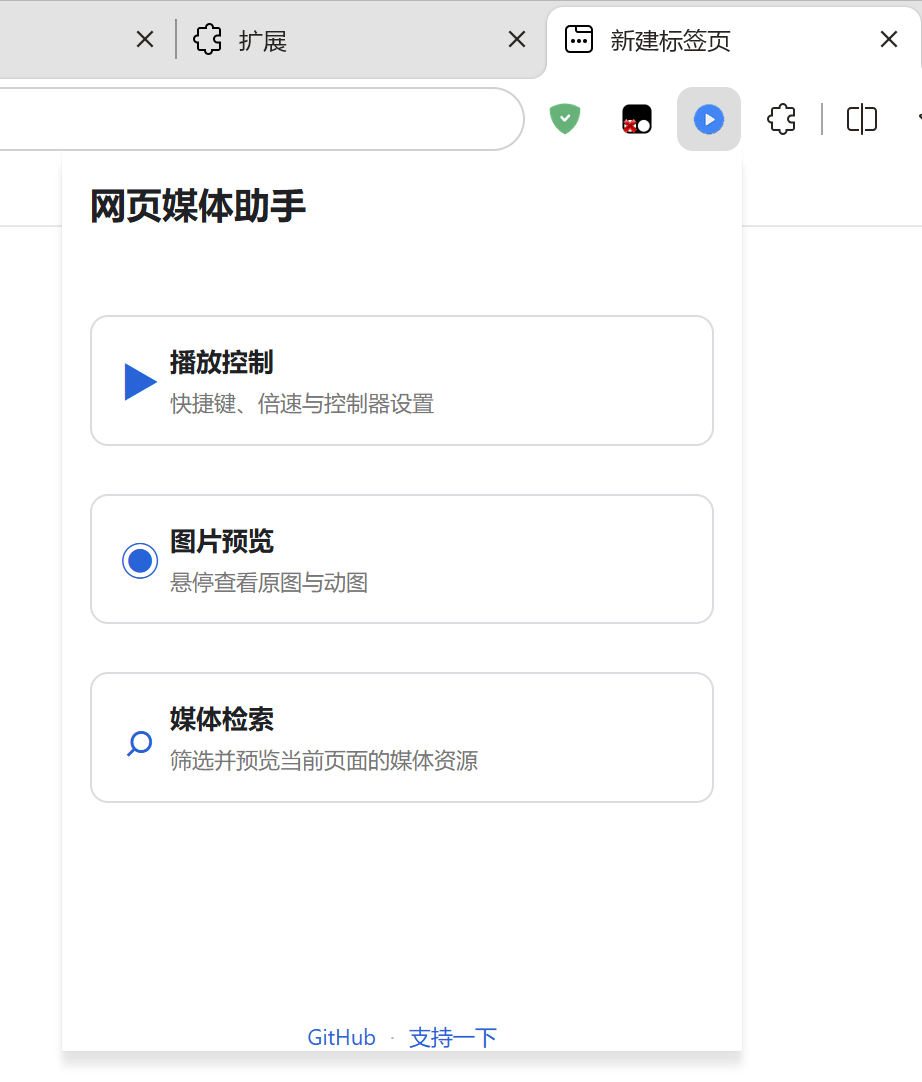
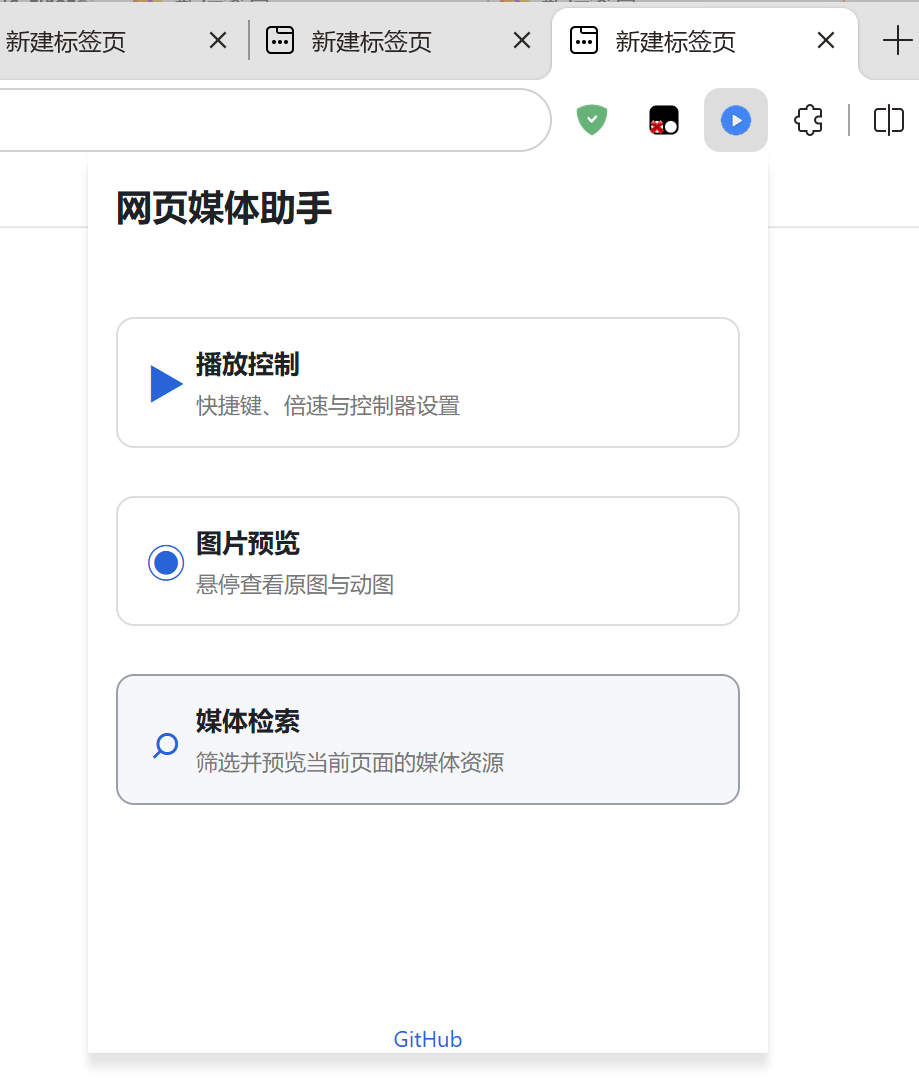
Update screenshots and release 0.1.40

diff --git a/popup.css b/popup.css
@@ -28,7 +28,6 @@ input[type="text"], input[type="number"], textarea { caret-color: auto; }
 .subpage-header { position: sticky; top: 0; z-index: 4; display: grid; grid-template-columns: auto minmax(0, 1fr); gap: 10px; align-items: center; min-height: 52px; padding: 6px 0 9px; margin-bottom: 7px; border-bottom: 1px solid #edf0f2; background: #fff; }
 .subpage-header b, .subpage-header small { display: block; }
 .subpage-header small { margin-top: 3px; overflow: hidden; color: #777; font-size: 10px; line-height: 1.25; text-overflow: ellipsis; white-space: nowrap; }
-#donationPanel .subpage-header small { overflow: visible; line-height: 1.4; text-overflow: clip; white-space: normal; }
 .back-button { align-self: stretch; padding: 0 8px; border: 1px solid #d2d6dc; border-radius: 6px; color: #2864d7; background: #fff; font-size: 11px; }
 .back-button:hover { background: #eef3fc; }
 .card-icon { font-size: 20px; color: #2864d7; text-align: center; }
@@ -38,7 +37,6 @@ input[type="text"], input[type="number"], textarea { caret-color: auto; }
 .app-footer { display: flex; align-items: center; justify-content: center; gap: 7px; margin-top: auto; padding: 12px 0 0; color: #9aa0a6; font-size: 11px; }
 .app-footer a, .footer-link { color: #2864d7; text-decoration: none; }
 .footer-link { padding: 0; border: 0; background: transparent; font-size: inherit; }
-.footer-separator { color: #b4b9bf; }
 .app-footer a:hover, .footer-link:hover { text-decoration: underline; }
 .feature-header { grid-template-columns: auto minmax(0, 1fr) auto; }
 .feature-switch { display: flex; align-items: center; margin-right: 5px; cursor: pointer; user-select: none; }
@@ -92,7 +90,6 @@ input[type="text"], input[type="number"], textarea { caret-color: auto; }
 .capture-quality:disabled { color: #999; background: #f5f5f5; border-color: #ddd; cursor: not-allowed; }
 .capture-preview { display: block; width: 100%; max-height: 170px; margin-top: 7px; border-radius: 4px; background: #000; }
 .capture-preview-error { display: block; margin-top: 6px; color: #b3261e; font-size: 10px; line-height: 1.35; }
-.donation-code { display: block; width: min(100%, 230px); height: auto; margin: 8px auto 0; border-radius: 8px; }
 .rules-box { margin-top: 12px; border: 1px solid #dfe4ea; border-radius: 7px; background: #fff; overflow: hidden; }
 .rules-box > summary { cursor: pointer; list-style: none; }
 .rules-box > summary::-webkit-details-marker { display: none; }

diff --git a/popup.html b/popup.html
@@ -17,7 +17,7 @@
         <button type="button" class="menu-card" data-page="playbackPanel"><span class="card-icon">▶</span><span><b data-i18n="playbackControlTitle">播放控制</b><small data-i18n="playbackControlSubtitle">快捷键、倍速与控制器设置</small></span></button>
         <button type="button" class="menu-card" data-page="imagePreviewPanel"><span class="card-icon">◉</span><span><b data-i18n="imagePreviewTitle">图片预览</b><small data-i18n="imagePreviewSubtitle">悬停查看原图与动图</small></span></button>
         <button type="button" class="menu-card" data-page="capturePanel"><span class="card-icon media-search-icon">⌕</span><span><b data-i18n="mediaCaptureTitle">媒体检索</b><small data-i18n="mediaCaptureSubtitle">筛选、预览并下载当前页面的媒体资源</small></span></button>
-        <footer class="app-footer"><a class="footer-link" href="https://github.com/shelus2021/web-media-assistant" target="_blank" rel="noopener noreferrer">GitHub</a><span class="footer-separator" aria-hidden="true">·</span><button type="button" class="footer-link" data-page="donationPanel" data-i18n="supportTitle">支持一下</button></footer>
+        <footer class="app-footer"><a class="footer-link" href="https://github.com/shelus2021/web-media-assistant-edge" target="_blank" rel="noopener noreferrer">GitHub</a></footer>
       </div>
 
       <section id="playbackPanel" class="subpage hidden">
@@ -118,7 +118,6 @@
         <button type="button" id="saveImagePreviewShortcuts" class="primary" data-i18n="saveImagePreviewShortcuts">保存预览快捷键</button><button type="button" id="resetImagePreviewShortcuts" class="reset-button" data-i18n="resetImagePreviewShortcuts">恢复 JSON 默认快捷键</button>
       </section>
 
-      <section id="donationPanel" class="subpage hidden"><div class="subpage-header"><button type="button" class="back-button" data-back="mainMenu" data-i18n="back">返回</button><span><b data-i18n="supportTitle">支持一下</b><small data-i18n="supportSubtitle">本扩展仅用于学习交流，如果你觉得有所收获，可以请我喝瓶水~</small></span></div><img class="donation-code" src="support.jpg" alt="收款码" data-i18n-alt="donationCodeAlt" /></section>
     </main>
   </body>
 </html>

diff --git a/js/hls-downloader.js b/js/hls-downloader.js
@@ -7,7 +7,7 @@
     const jobStates = new Map();
     const pendingDownloads = new Map();
     let activeOperations = 0;
-    const popupPanels = new Set(["mainMenu", "playbackPanel", "shortcutsPanel", "generalPanel", "capturePanel", "imagePreviewPanel", "imagePreviewSettingsPanel", "imagePreviewShortcutsPanel", "donationPanel"]);
+    const popupPanels = new Set(["mainMenu", "playbackPanel", "shortcutsPanel", "generalPanel", "capturePanel", "imagePreviewPanel", "imagePreviewSettingsPanel", "imagePreviewShortcutsPanel"]);
     let popupPanel = "mainMenu";
     let nextJobId = 1;
     let mp4boxLoader;
